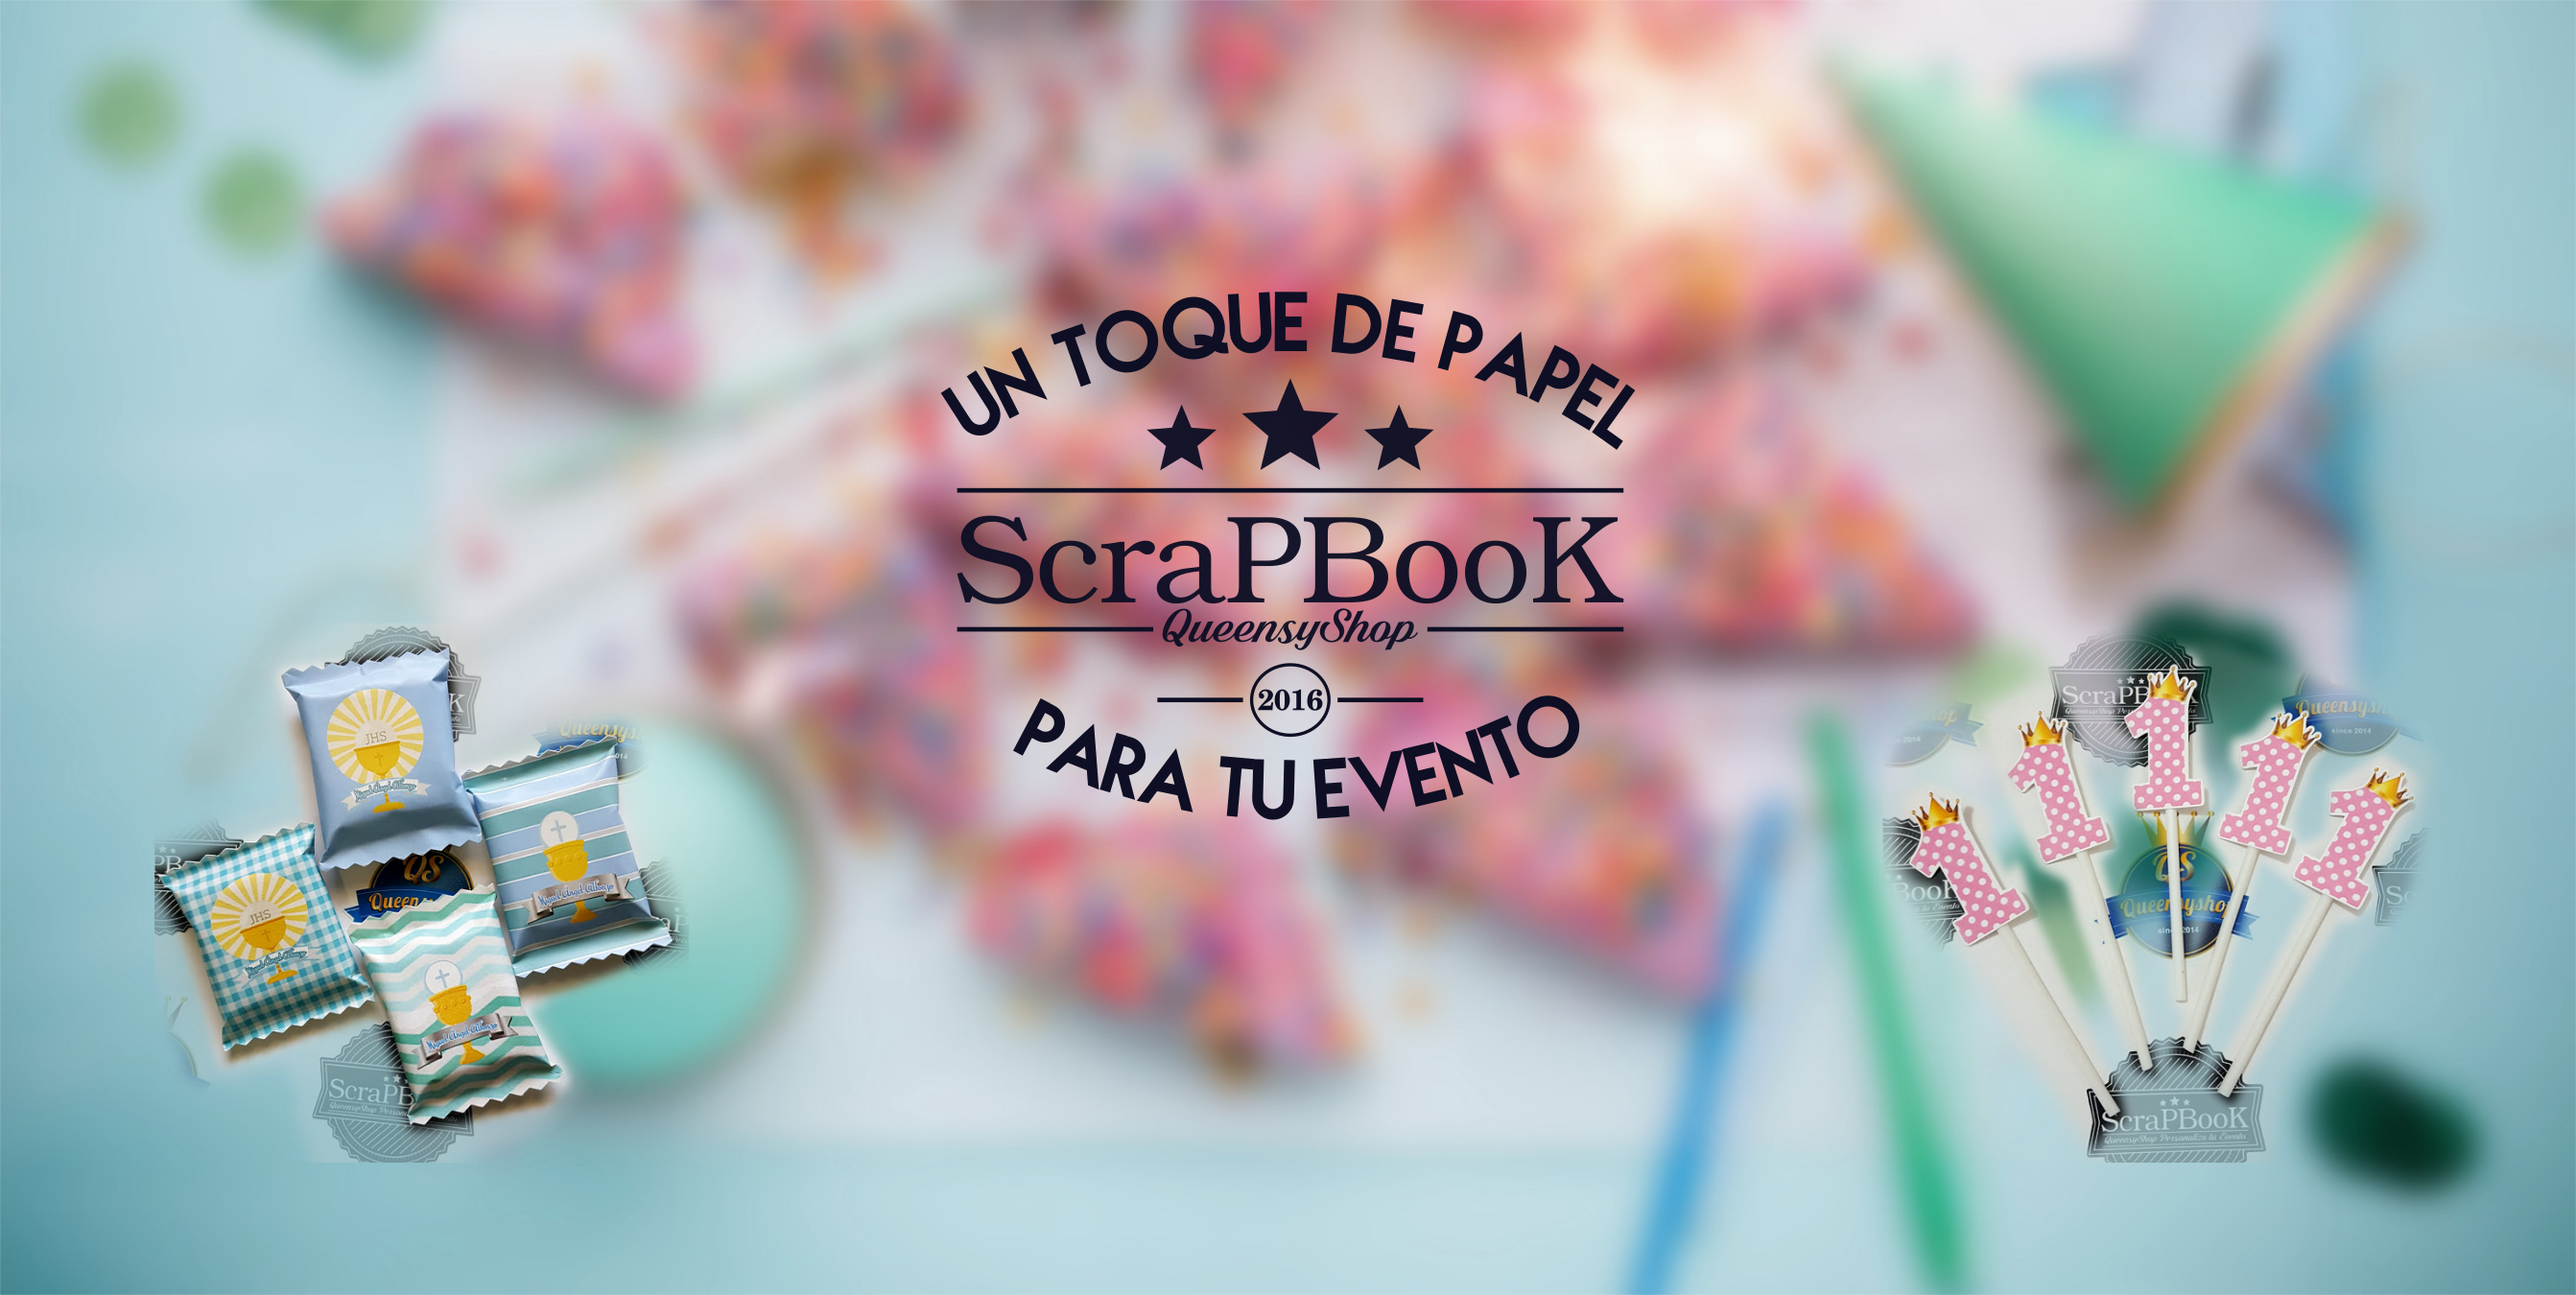
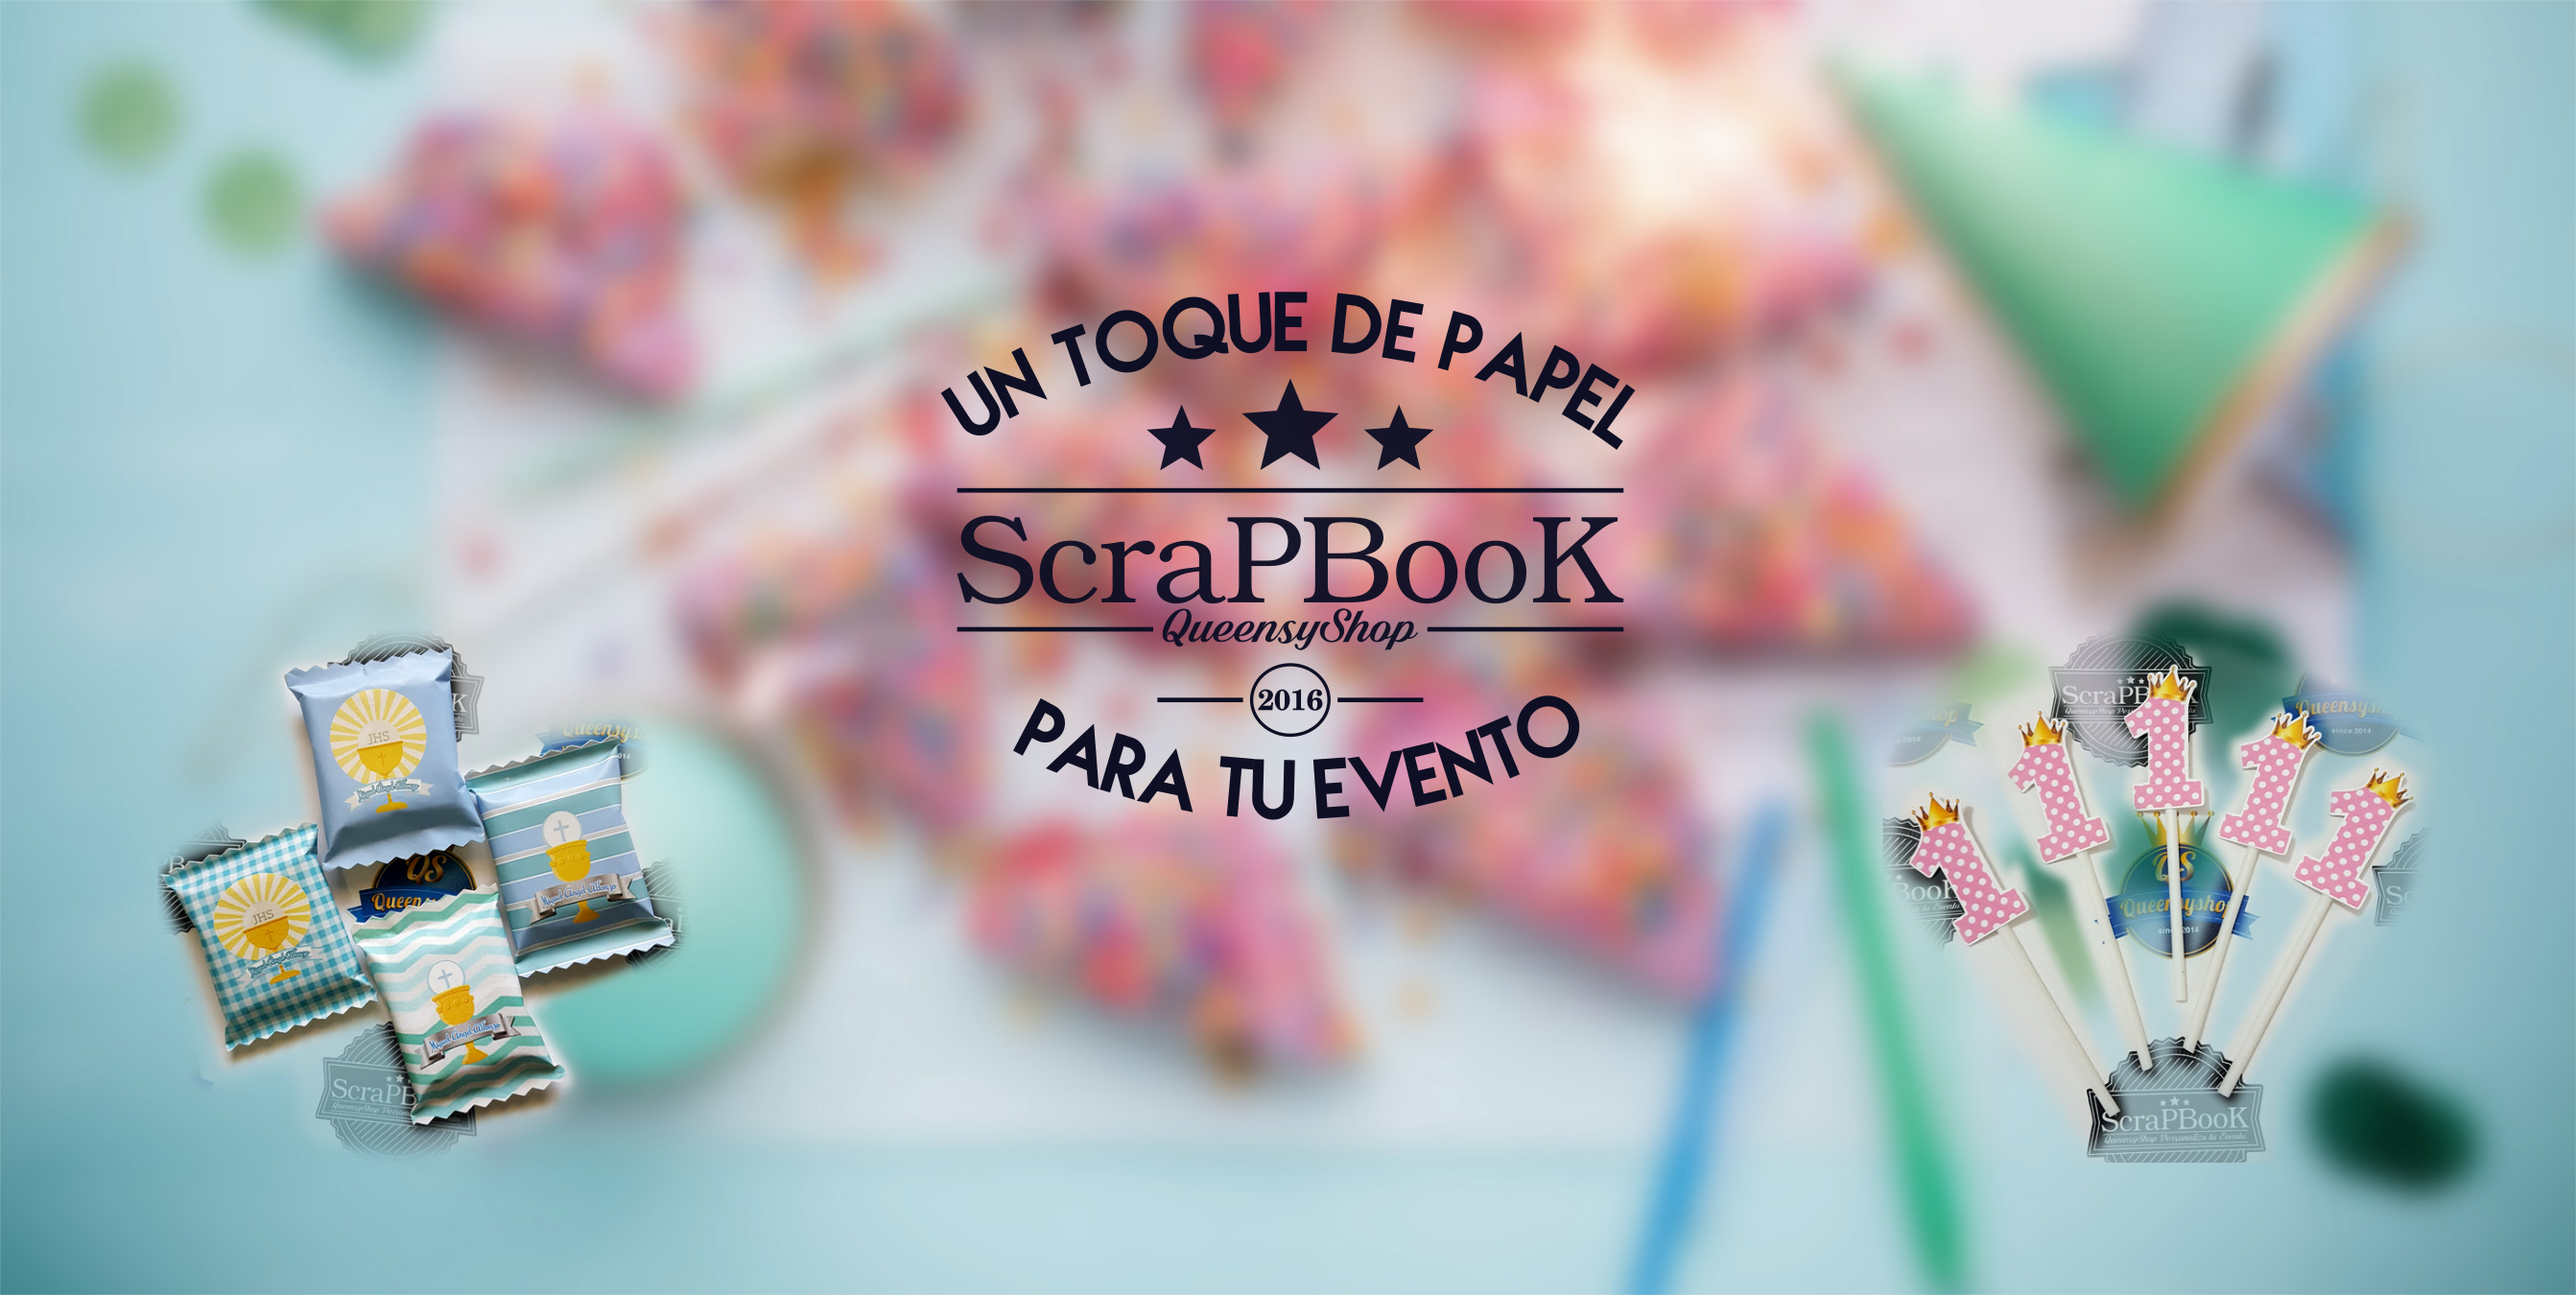
layout de header completo.

Changed region(s): [[0.0618, 0.4978, 0.2782, 0.9022]]

diff --git a/app/pre-styles/modules/_parallax-header.css b/app/pre-styles/modules/_parallax-header.css
@@ -7,4 +7,43 @@
     background-position: top center;
     background-repeat: no-repeat;
     background-attachment: fixed;
+    
+    &__logo {
+        width: 100%;
+        height: 15rem;
+        background-image: url(../../assets/images/icons/logo.svg);
+        background-size: contain;
+        background-position: center;
+        background-repeat: no-repeat;
+        
+        position: absolute;
+        top: 27vmin;
+        transform: translateY(-50%);
+    }   
+    
+    &__choco {
+        width: 16rem;
+        height: 16rem;
+        background-image: url(../../assets/images/chocolates.png);
+        background-size: contain;
+        background-position: right bottom;
+        background-repeat: no-repeat;
+        
+        position: absolute;
+        top: 23vmin;
+        left: 10%;
+    }   
+    
+    &__toppers {
+        width: 19rem;
+        height: 16rem;
+        background-image: url(../../assets/images/toppers.png);
+        background-size: contain;
+        background-position: right bottom;
+        background-repeat: no-repeat;
+        
+        position: absolute;
+        top: 23vmin;
+        right: 10%;
+    }
 }

diff --git a/app/assets/styles/styles.css b/app/assets/styles/styles.css
@@ -473,4 +473,41 @@ template {
     background-position: top center;
     background-repeat: no-repeat;
     background-attachment: fixed;
+}
+
+.parallax-header__logo {
+  width: 100%;
+  height: 15rem;
+  background-image: url(../../assets/images/icons/logo.svg);
+  background-size: contain;
+  background-position: center;
+  background-repeat: no-repeat;
+  position: absolute;
+  top: 27vmin;
+  -webkit-transform: translateY(-50%);
+          transform: translateY(-50%);
+}
+
+.parallax-header__choco {
+  width: 16rem;
+  height: 16rem;
+  background-image: url(../../assets/images/chocolates.png);
+  background-size: contain;
+  background-position: right bottom;
+  background-repeat: no-repeat;
+  position: absolute;
+  top: 23vmin;
+  left: 10%;
+}
+
+.parallax-header__toppers {
+  width: 19rem;
+  height: 16rem;
+  background-image: url(../../assets/images/toppers.png);
+  background-size: contain;
+  background-position: right bottom;
+  background-repeat: no-repeat;
+  position: absolute;
+  top: 23vmin;
+  right: 10%;
 } 

diff --git a/app/pre-styles/styles.css b/app/pre-styles/styles.css
@@ -1,4 +1,5 @@
 @import "normalize.css";
+@import "base/_variables";
 /*
  *===Estilos para el header con efecto parallax===
 */

diff --git a/app/pre-styles/base/_variables.css b/app/pre-styles/base/_variables.css
@@ -1,0 +1,4 @@
+$mainBlack: #0e0f24;
+$blackShade: #aeb1e2;
+$mainWhite: #f0f1fa;
+$outstand: #3e43aa;
